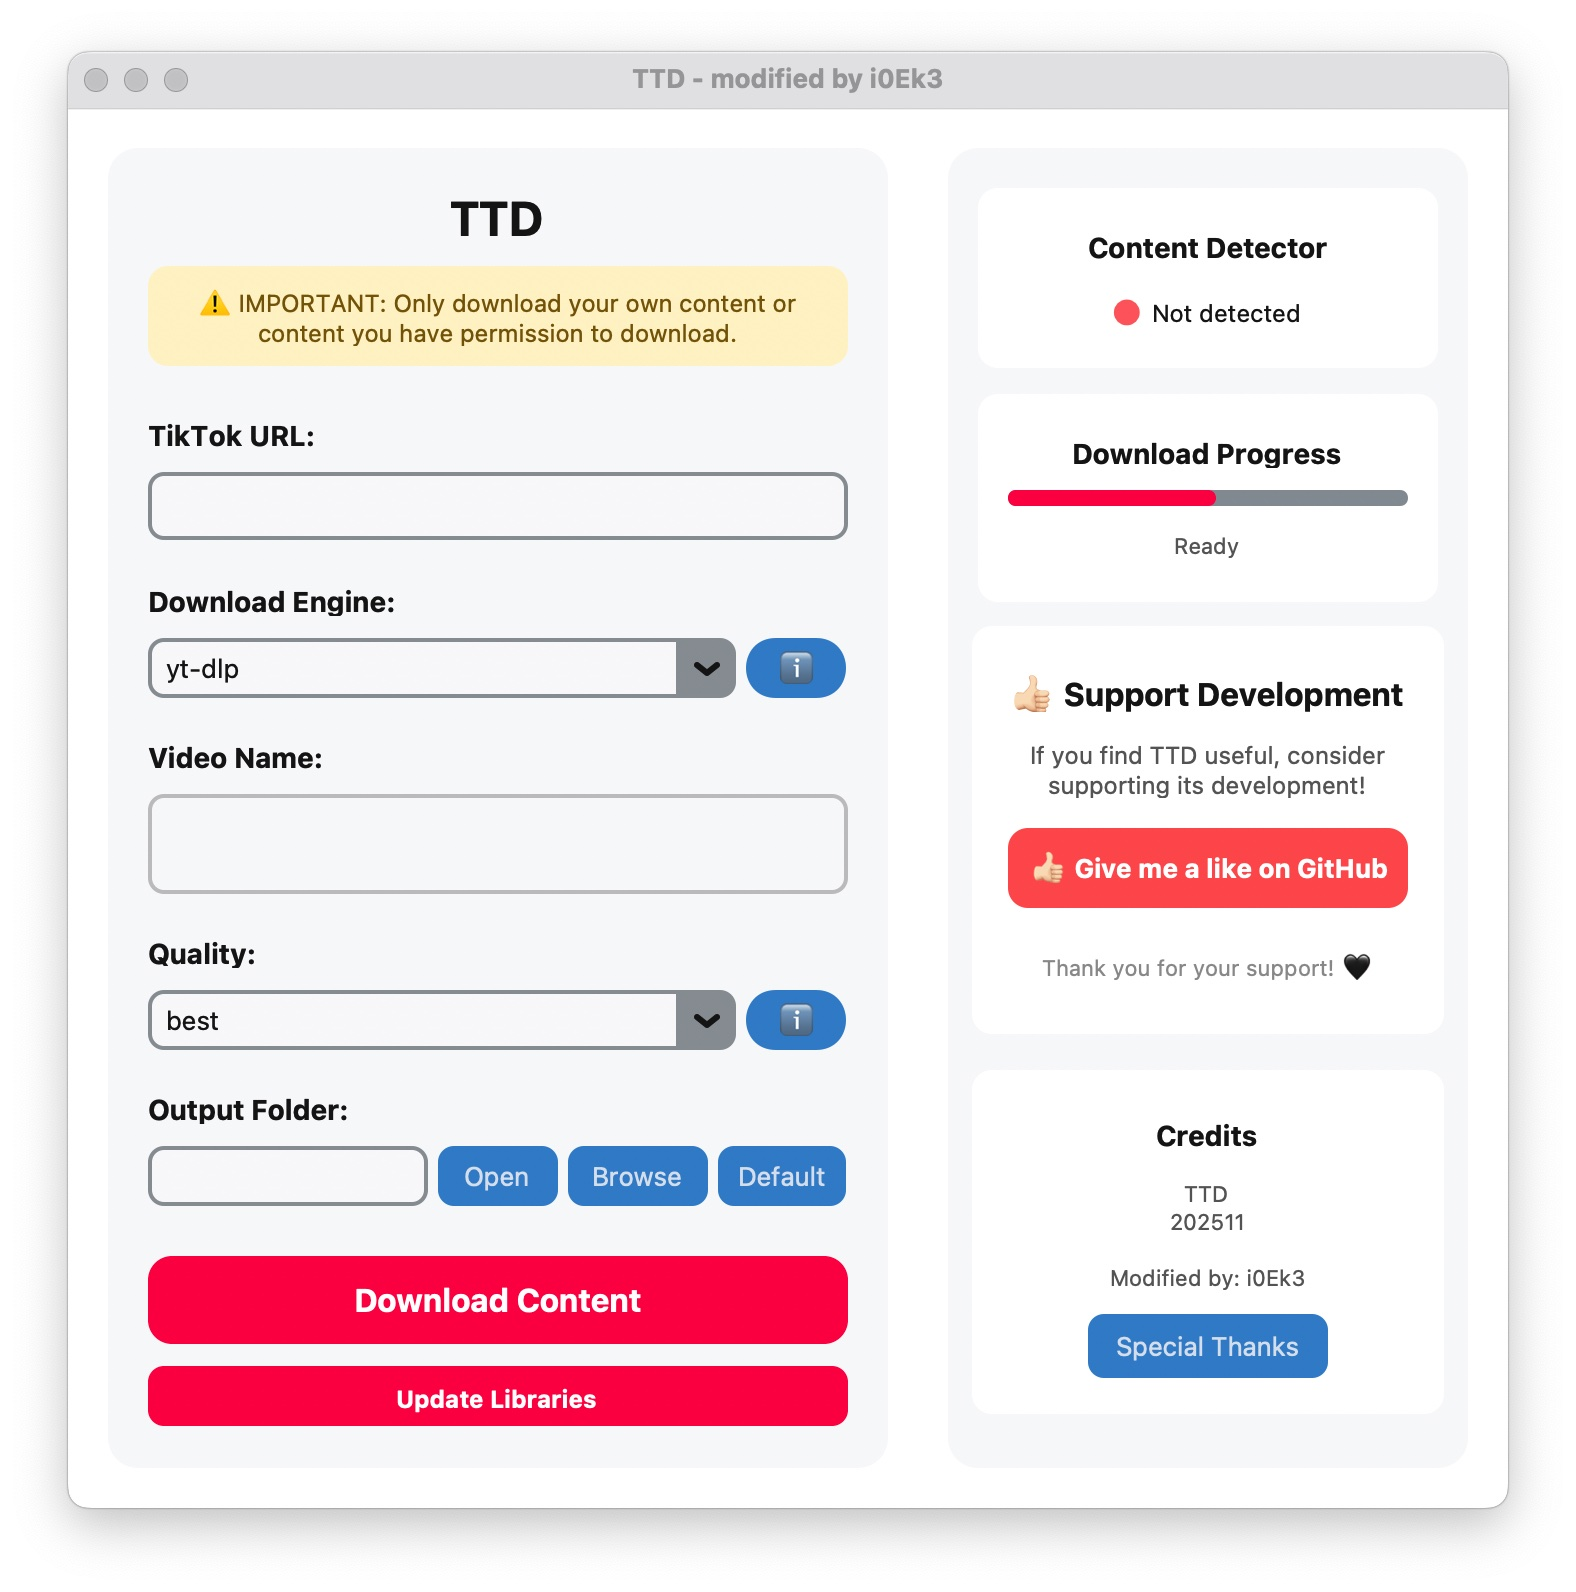
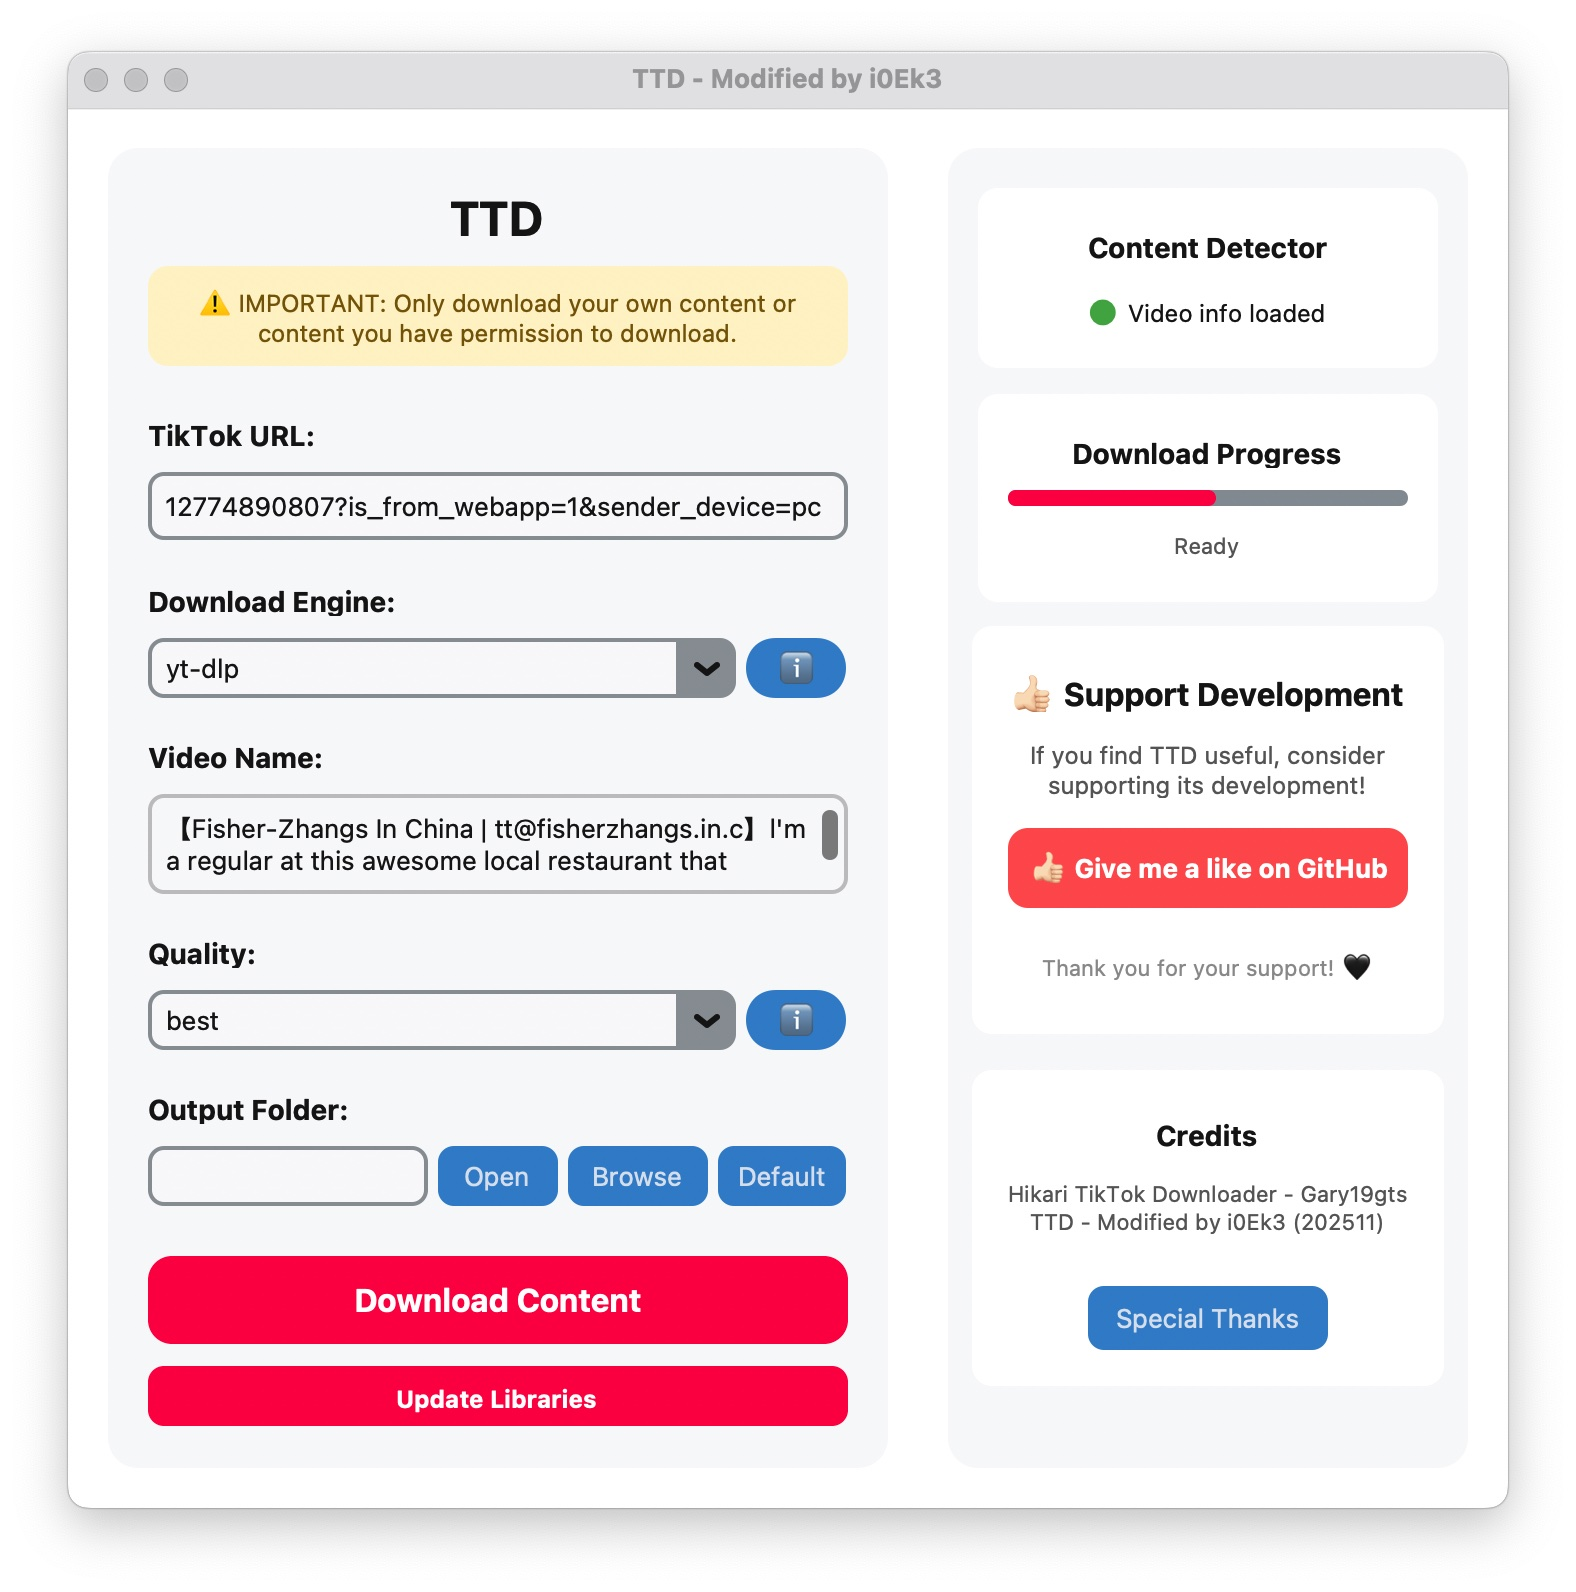
Update README.md

diff --git a/README.md b/README.md
@@ -1,6 +1,6 @@
 # 🎬 TTD - TikTok videos Downloader
 
-> A modified version of [Hikari TikTok Downloader](https://github.com/gary19gts/Hikari-TikTok-Downloader) made by Gary19gts.
+> A modified version of [Hikari TikTok Downloader (made by Gary19gts)](https://github.com/gary19gts/Hikari-TikTok-Downloader).
 
 
 
@@ -21,8 +21,10 @@ python3 main.py
 
 ## Modifications
 
-- Added a customizable "Video Name" input field for video filename editing.
-- [WIP] Automatically paste the TikTok URL into the URL box.
+- Added a customizable "Video Name" input field for video filename editing
+  - Video titles will be automatically parsed into the format `【Display Name | tt@Username】Original Video Title` for easy organization and documentation
+
+- [WIP] Automatically paste the TikTok URL into the URL box
 
 
 
